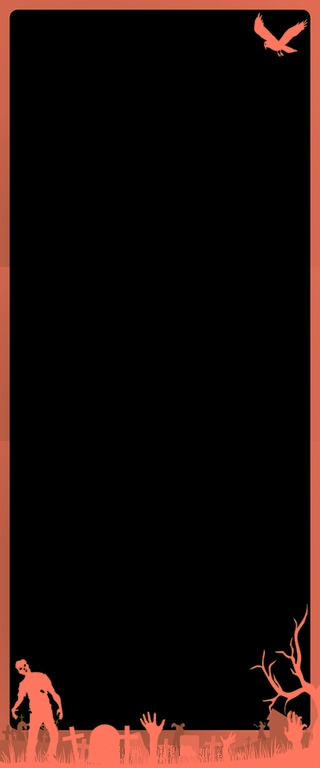
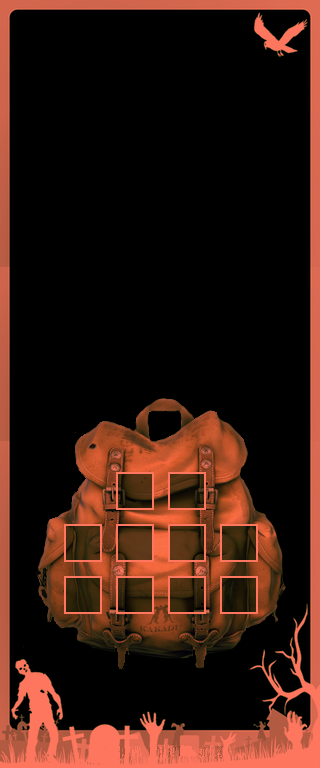
pick up items

Changed region(s): [[0.0938, 0.5, 0.9062, 0.875]]

diff --git a/app/client/items.js b/app/client/items.js
@@ -2,39 +2,28 @@
 
 class Items
 {
-	constructor(game, id, face, startx, starty) {
+	constructor(game) {
 		this.game = game
-		this.id = id
-		this.face = face
-		this.X = startx
-		this.Y = starty
-		this.step = this.game.Properties.step
-		// this.line = new Phaser.Line(0, 0, 100, 100);
-	    // this.graphics=game.add.graphics(0,0);
-		this.game.DynLoad.loadUser(face, this.initSprite.bind(this))
+		this.inventory = this.game.add.group()
+		this.inventory.enableBody = true
+		this.inventory.fixedToCamera = true
+		this.cartouche = new Phaser.Point(960, 0)
+
+		this.sac = new Array(10)
+		this.sac[0] = new Phaser.Point(this.cartouche.x + 118, this.cartouche.y + 474)
+		this.sac[1] = new Phaser.Point(this.cartouche.x + 170, this.cartouche.y + 474)
+		this.sac[2] = new Phaser.Point(this.cartouche.x + 66, this.cartouche.y + 526)
+		this.sac[3] = new Phaser.Point(this.cartouche.x + 118, this.cartouche.y + 526)
 	}
 
-	initSprite(face) {
-		this.sprite = this.game.add.sprite(this.X*this.step, this.Y*this.step, this.face);
-		this.game.midLayer.add(this.sprite)
-		this.game.physics.arcade.enable(this.sprite);
-	    // this.sprite.body.collideWorldBounds = true;
-		this.sprite.body.setSize(this.step, this.step);
-	}
-
-	adjustSpritePosition() {
-		var markerx = this.game.math.snapToFloor(Math.ceil(this.dest_X*this.step), this.step)
-		var markery = this.game.math.snapToFloor(Math.ceil(this.dest_Y*this.step), this.step)
-		// console.log("Adjusting : x="+this.sprite.body.x+" y="+this.sprite.body.y+" -> x="+ markerx +" y="+markery)
-		this.sprite.body.x = markerx
-		this.sprite.body.y = markery
-		this.X = this.dest_X
-		this.Y = this.dest_Y
-		// this.graphics.clear();
-	}
-
-	destroy() {
-		this.sprite.kill()
+	add(id) {
+		var zone = this.inventory.length
+		var newItem = this.inventory.getFirstExists(false);
+		if (!newItem)
+		{
+			newItem = this.inventory.create(this.sac[zone].x, this.sac[zone].y, 'final', id-1);
+		}
+		newItem.reset(this.sac[zone].x, this.sac[zone].y);
 	}
 }
 

diff --git a/app/client/play.js b/app/client/play.js
@@ -10,6 +10,7 @@ var Remote = require('client/remote')
 var Mob = require('client/mob')
 var Shoot = require('client/shoot')
 var Explode = require('client/explode')
+var Items = require('client/items')
 
 function Play(){}
 
@@ -36,6 +37,7 @@ Play.prototype = {
 		this.initSocket()
 		this.bullets = new Shoot(this.game)
 		this.explode = new Explode(this.game)
+		this.inventory = new Items(this.game)
 
 		this.game.WorldMap = new WMap(this.game)
 		this.game.OSD = new OSD(this.game)
@@ -85,6 +87,7 @@ Play.prototype = {
 	onRemoveItem: function(data) {
 		console.log(data)
 		this.game.WorldMap.removeTileInArea(data.x, data.y)
+		this.inventory.add(151)
 	},
 
 ////////////////////////////////////////////////////

diff --git a/app/client/boot.js b/app/client/boot.js
@@ -31,7 +31,7 @@ Boot.prototype = {
 	  	this.game.load.spritesheet('h1', 'http://'+Config.MMOServer.Host+'/data/h1.png', 32, 32);
 	  	this.game.load.atlas('zombies', 'assets/ZombieSheet.png', 'assets/ZombieSheet.json', Phaser.Loader.TEXTURE_ATLAS_JSON_HASH);
 	  	this.game.load.atlas('shoot', 'assets/shoot.png', 'assets/shoot.json', Phaser.Loader.TEXTURE_ATLAS_JSON_HASH);
-		this.game.load.image('final', 'http://'+Config.MMOServer.Host+'/data/final.png')
+		this.game.load.spritesheet('final', 'http://'+Config.MMOServer.Host+'/data/final.png', 32, 32);
 		this.game.load.image('cartouche', 'assets/cartouche.png');
         this.game.load.start();
     },

diff --git a/app/client/map.js b/app/client/map.js
@@ -43,6 +43,7 @@ class Area
 			this.game.backLayer.add(this.obstacles)
 			this.game.frontLayer.add(this.hauteurs)
 
+			// this.game.frontLayer.sort();
 			this.status = 2
 		}
 	}

diff --git a/main/server.go b/main/server.go
@@ -28,7 +28,19 @@ var ScaleList *scaling.ServersList
 var zeWorld *world.WORLD
 var zeHub *hub.Hub
 
-func maxOpenFiles() int {
+func setMaxProcs(nb int) {
+	var procs int
+	if nb == 0 {
+		procs = runtime.NumCPU()
+		runtime.GOMAXPROCS(procs)
+	} else {
+		procs = nb
+		runtime.GOMAXPROCS(procs)
+	}
+	clog.Output("Using %d CPUs.", runtime.GOMAXPROCS(procs))
+}
+
+func maxOpenFiles(max uint64) int {
 	var rLimit syscall.Rlimit
 
 	err := syscall.Getrlimit(syscall.RLIMIT_NOFILE, &rLimit)
@@ -36,6 +48,10 @@ func maxOpenFiles() int {
 		clog.Error("server", "maxOpenFiles", "Error Getting Rlimit %s", err)
 	}
 
+	if max != 0 {
+		rLimit.Cur = max - 1
+		rLimit.Max = max
+	}
 	if rLimit.Cur < rLimit.Max {
 		rLimit.Cur = rLimit.Max
 		err = syscall.Setrlimit(syscall.RLIMIT_NOFILE, &rLimit)
@@ -43,7 +59,7 @@ func maxOpenFiles() int {
 			clog.Error("server", "maxOpenFiles", "Error Setting Rlimit %s", err)
 		}
 	}
-
+	clog.Output("Setting maxOpenFiles to %d.", rLimit.Cur)
 	return int(rLimit.Cur)
 }
 
@@ -54,9 +70,8 @@ func main() {
 	clog.StartLogging = conf.StartLogging
 
 	// System Optims
-	clog.Output("Using %d CPUs.", runtime.GOMAXPROCS(runtime.NumCPU()))
-	maxFiles := maxOpenFiles()
-	clog.Output("Setting maxOpenFiles to %d.", maxFiles)
+	setMaxProcs(2)
+	maxFiles := maxOpenFiles(4096)
 	////////////////
 
 	totalConn := conf.MaxUsersConns + conf.MaxMonitorsConns + conf.MaxServersConns + conf.MaxIncommingConns
